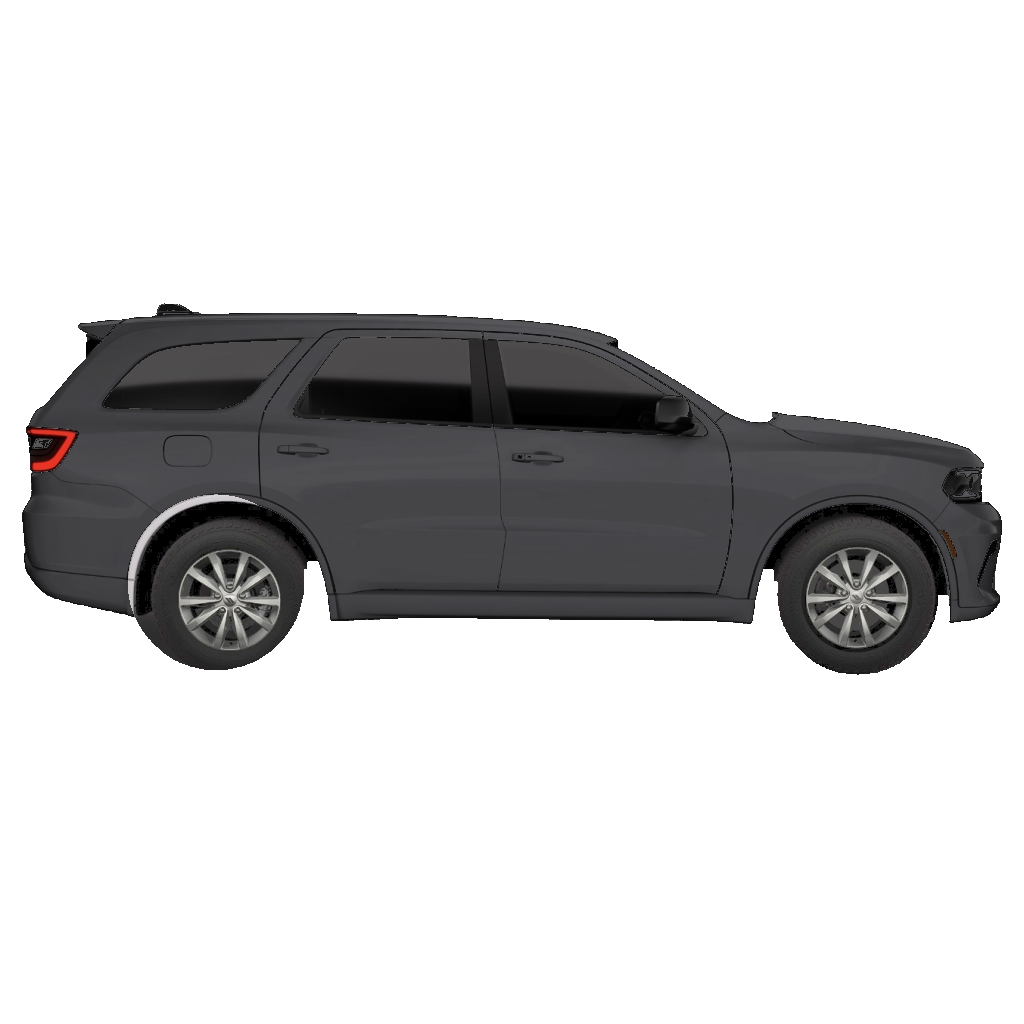
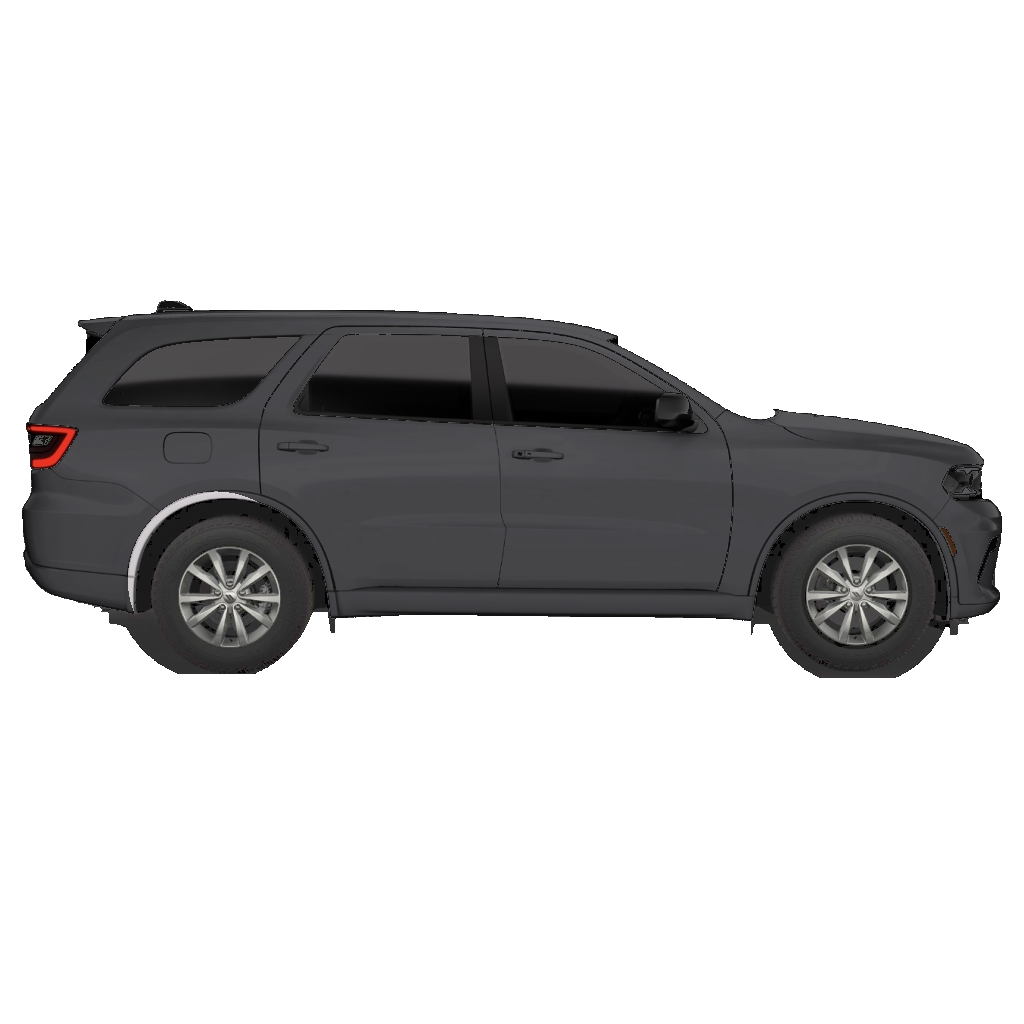
Recut Durango Left/Right so the rear well keeps the JPEG liner and lip
The prior circle seal squared off the aft cavity behind the rear tire.
This recut grows the well from the studio JPEG arch and tire, keeps the
mudguard that hangs behind the tire, and flips Right from that Left.
Black twins rebuild from the new recut only. Cache-bust ASSET_V=studio4.

diff --git a/visualizer/index.html b/visualizer/index.html
@@ -196,7 +196,7 @@ select:focus,input[type=text]:focus{box-shadow:0 0 0 2px color-mix(in srgb,var(-
 (function(){
 /* Multi-canvas visualizer. Catalog is shared FedSig SKUs (no invented lights).
    Durango mounts stay as previously signed; trucks have their own snaps. */
-var ASSET_V="studio3";
+var ASSET_V="studio4";
 var FX_V="max4";
 var DURANGO_VIEWS=[
   {id:"front",label:"Front",imgW:"durango_front.png",imgB:"durango_front_black.png"},
